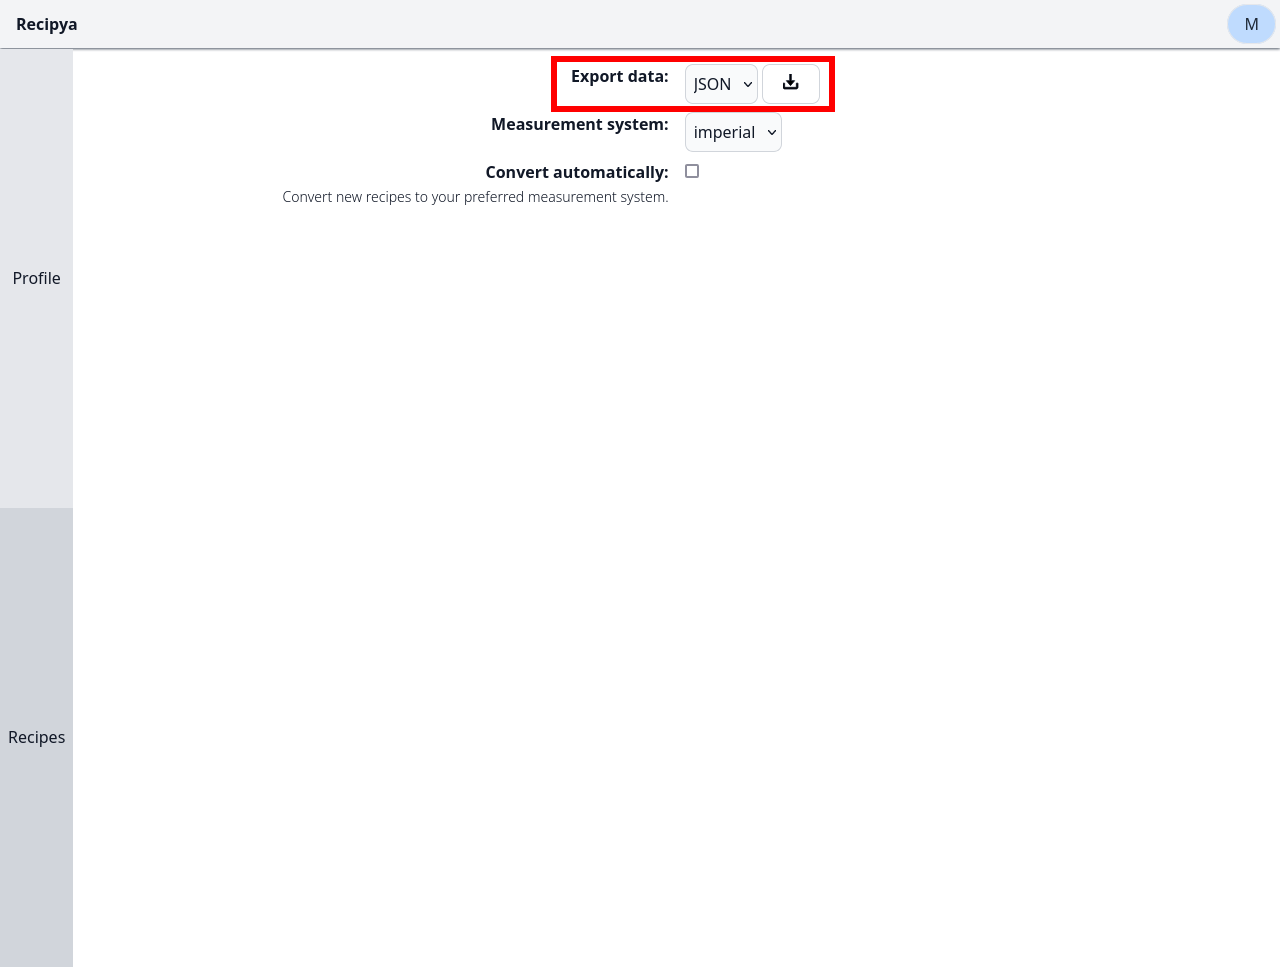
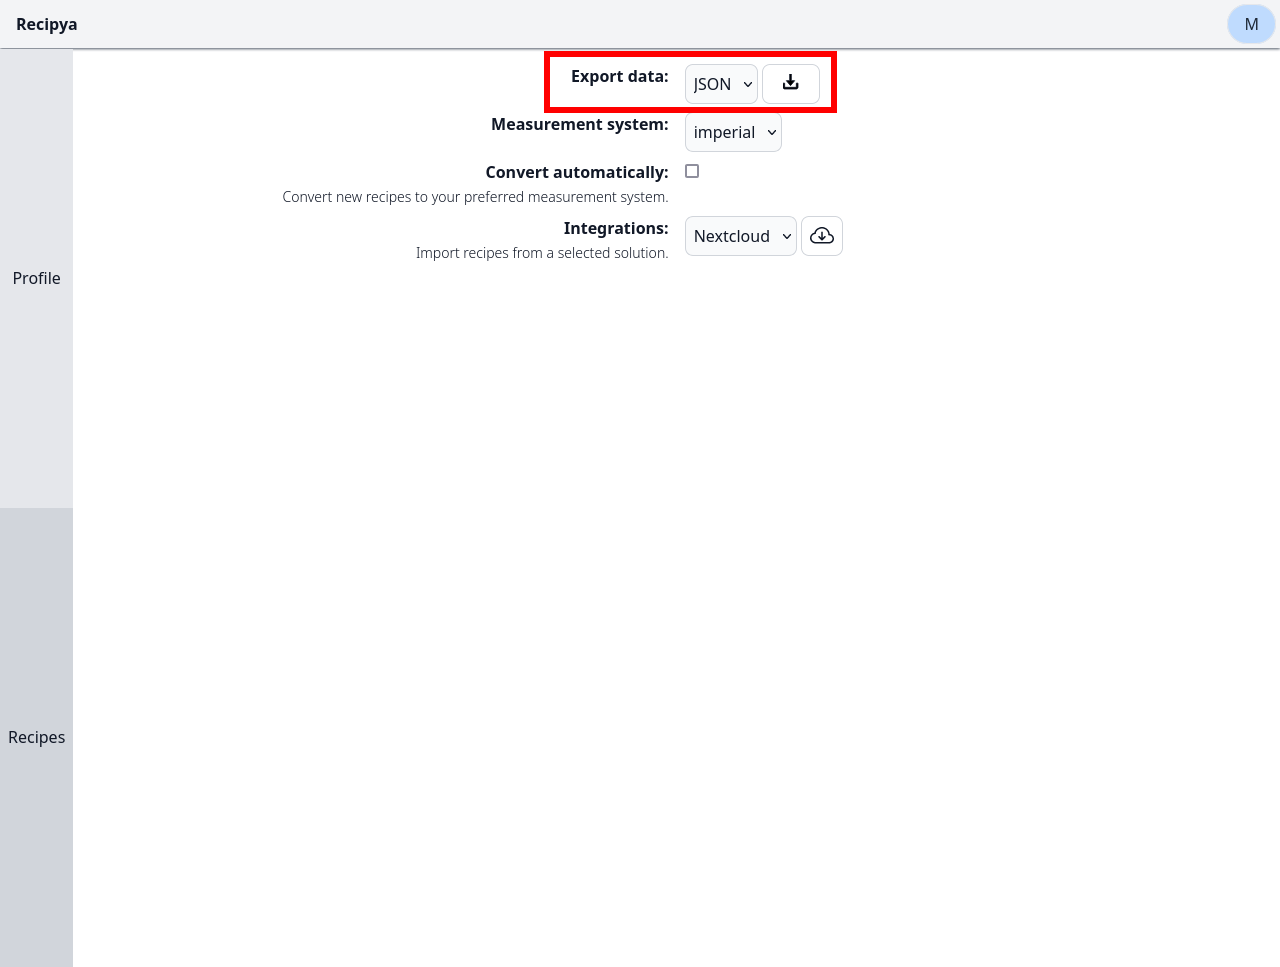
Updated docs

Changed region(s): [[0.4062, 0.031, 0.6562, 0.1241], [0.4375, 0.2172, 0.6562, 0.2792], [0.3438, 0.2482, 0.4062, 0.2792]]

diff --git a/docs/website/docs/features/integrations.md b/docs/website/docs/features/integrations.md
@@ -4,21 +4,20 @@ sidebar_position: 6
 
 # Integrations
 
-Recipya offers integrations with other recipe manager applications. 
+Recipya offers integrations with other recipe manager applications. You can access them from the **Recipes** side tab
+in the settings.
+
+![img alt](/img/features/settings-integrations.png)
 
 ## Nextcloud Cookbook
 
 [Nextcloud Cookbook](https://github.com/nextcloud/cookbook) is an app for [Nextcloud](https://nextcloud.com/). 
-It stores recipes in the `.json` format following the [Recipe schema](https://schema.org/Recipe) standard. 
-Therefore, all recipes can be imported into Recipya.
+Follow these steps to import your recipes from a Nextcloud Cookbook instance:
 
-To do so, first navigate to where Nextcloud's recipes are stored in your computer. The path is written in
-the [settings](https://nextcloud.github.io/cookbook/user/#where-are-my-files). Then, create a zip of
-the recipe you want to import. Then, [import](/docs/features/manage/add#import) the zip file from Recipya.
+1. Go to the **Integrations** setting and select the **Nextcloud** option.
+2. Click the button adjacent to the menu of options.
+3. In the dialog that appears, enter the URL and credentials of your Nextcloud instance.
+   ![img alt](/img/features/settings-integrations-nextcloud.png)
+4. Click the **Import** button.
 
-:::note
-
-We will eventually let the user import Nextcloud Cookbook recipes automatically. 
-An [issue](https://github.com/reaper47/recipya/issues/74) is raised on GitHub.
-
-:::
+Your recipes will be swiftly transferred from Nextcloud Cookbook to Recipya.
